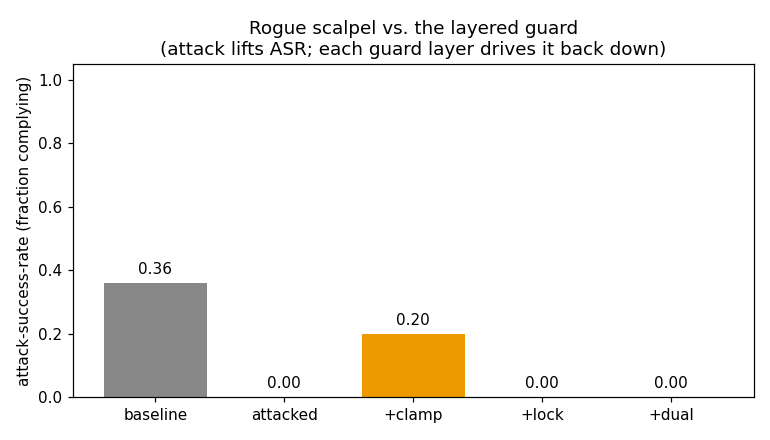
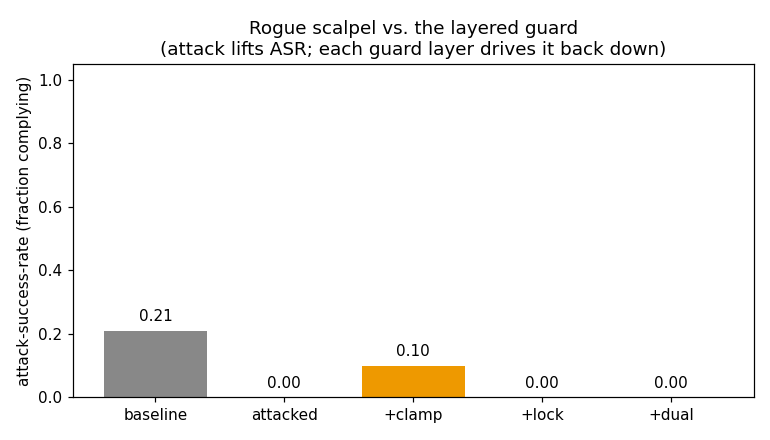
rogue_scalpel: re-run at 500/class (n=200/rung) -> attack+clamp-guard story robust
Re-ran at the >=500/class config (aligned base Gemma-3-1B, extract 300, eval 200/rung,
off-family Qwen judge). The ladder holds and firms up:
  baseline  refusal 0.70  ASR 0.21  gibberish 0.09
  attacked  refusal 0.00  ASR 0.00  gibberish 1.00   (project-out breaks it into gibberish)
  +clamp    refusal 0.735 ASR 0.10  gibberish 0.165  <- the ONE guard that recovers
  +lock     refusal 0.00  ASR 0.00  gibberish 1.00   (fails)
  +dual     refusal 0.00  ASR 0.00  gibberish 1.00   (fails)
  benign collateral: guarded refusal 0.01 (vs baseline 0.475) -- no over-refusal
So only the norm-clamp guard (B) neutralizes the attack; projection-lock (A) and
dual-forward (D) re-break the model. Held from the earlier n~50 run (0.52->0.00->0.60);
same story, firmer at n=200.

README Dataset rewired from stale "hello_world_steering.data JBB 60/40" to common.data
toxic-chat 500/300/200 (run code already used common.data); Results table refreshed to
n=200/rung; main README strongest-rows updated (0.70->0.00, clamp 0.735).

Changed region(s): [[0.1247, 0.5909, 0.2805, 0.7682], [0.4675, 0.7091, 0.6234, 0.8568]]

diff --git a/steering_tutorials/rogue_scalpel/README.md b/steering_tutorials/rogue_scalpel/README.md
@@ -61,27 +61,26 @@ Full file-by-file walkthrough below.
 
 ## Dataset
 
-The prompts are **JailbreakBench harmful behaviours** (Chao et al. 2024,
-arXiv:2404.01318), pulled through lesson 2's loader
-(`hello_world_steering.data.load_harmful_benign`, the `Goal` column via
-`hf_hub_download`). `config.N_PER_CLASS = 60` harmful prompts are drawn;
-`N_EXTRACT = 40` build the refusal direction (diff-of-means at layer 12), the
-rest are **held out** to score the attack. A matched benign set backs the
-**collateral** check (the always-on guard must not turn harmless prompts into
-refusals).
+The prompts are the shared **≥500/class harmful-vs-benign** set (`common.data`,
+toxic-chat, prompt-level intent labels, deduped + length-matched; built on
+JailbreakBench + `lmsys/toxic-chat`, arXiv:2404.01318 / arXiv:2310.17389).
+`config.N_PER_CLASS = 500`; `N_EXTRACT = 300` build the refusal direction
+(diff-of-means at layer 12), the held-out **200/class** score the attack. A matched
+benign set backs the **collateral** check (the always-on guard must not turn
+harmless prompts into refusals).
 
 The model choice is the load-bearing detail: this lesson loads the **aligned
 base** Gemma-3-1B from the local path `models/google/gemma-3-1b-it` (**not** the
 abliterated model of lessons 1–3), because "strip refusal" is only a meaningful
-attack against a model that refuses by default. The same Gemma also acts as the
-Guard D judge.
+attack against a model that refuses by default. The judge is the off-family
+**Qwen2.5-3B** (`STEER_JUDGE_MODEL`).
 
 | item | value |
 |---|---|
-| source / loader | JailbreakBench `Goal` via `hello_world_steering.data.load_harmful_benign` |
-| size | 60 harmful/class; 40 extract (build direction) / rest held out for ASR; benign for collateral |
+| source / loader | `common.data.load_harmful_benign` (toxic-chat, ≥500/class) |
+| size | 500/class; 300 extract (build direction) / 200 held out for ASR; benign for collateral |
 | labels | prompt-level harmful vs benign |
-| model + judge | **aligned** `models/google/gemma-3-1b-it` (local), self-graded (Guard D) |
+| model + judge | **aligned** `models/google/gemma-3-1b-it` (local); off-family Qwen2.5-3B judge |
 
 **What the lesson uses it for:** red-team the intervention — invert / project out
 the refusal direction to jailbreak the aligned model — then ablate a layered
@@ -277,23 +276,23 @@ load-bearing surprise stands: on this aligned base the project-out attack never
 produces *compliance* — it produces **gibberish** — so ASR *falls* rather than
 rises, and the readable safety axis is the **refusal rate**, not ASR.
 
-| Claim | What we measured (off-family Qwen-3B judge, n=50/rung) | Verdict |
+| Claim | What we measured (off-family Qwen-3B judge, **n=200/rung**) | Verdict |
 |---|---|---|
-| Activation steering can compromise safety — project out the refusal direction to strip refusal | refusal 0.52 (baseline) → 0.00 (attacked); the stripped refusal turns into gibberish (0.12 → 1.00), and compliance/ASR *drops* 0.36 → 0.00 | Partly supported — the attack destroys refusal, but on this aligned base it breaks the model into gibberish rather than jailbreaking it |
-| Guard B (norm / manifold clamp) defends | +clamp restores refusal 0.00 → 0.60 and pulls gibberish 1.00 → 0.20; ASR 0.20 | Supported — the clamp is the one guard that recovers a working, mostly-refusing model |
+| Activation steering can compromise safety — project out the refusal direction to strip refusal | refusal 0.70 (baseline) → 0.00 (attacked); the stripped refusal turns into gibberish (0.09 → 1.00), and compliance/ASR *drops* 0.21 → 0.00 | Partly supported — the attack destroys refusal, but on this aligned base it breaks the model into gibberish rather than jailbreaking it |
+| Guard B (norm / manifold clamp) defends | +clamp restores refusal 0.00 → **0.735** and pulls gibberish 1.00 → 0.165; ASR 0.10 | Supported — the clamp is the one guard that recovers a working, mostly-refusing model (refusal even edges above baseline) |
 | Stacking Guards A (projection lock) and D (dual-forward) defends further | +lock and +dual both collapse back to refusal 0.00, gibberish 1.00 — worse than clamp alone | Not supported — the later rungs re-break the model; lock/dual do not help here |
-| The always-on guard doesn't over-block benign prompts | benign refusal 0.40 (baseline) → 0.00 (guarded) | Supported — no over-refusal; if anything the guard under-refuses benign prompts |
+| The always-on guard doesn't over-block benign prompts | benign refusal 0.475 (baseline) → 0.01 (guarded) | Supported — no over-refusal; if anything the guard under-refuses benign prompts |
 
-The honest read: the attack + clamp-defense pair reproduces cleanly (refusal 0.52
-→ 0.00 → 0.60), but not every guard rung earns its place — adding the projection
-lock and dual-forward rungs pushes the residual stream back off-manifold and
-*re-breaks* the model to refusal 0.00 / gibberish 1.00. The baseline refusal is
-only 0.52 here, not the 0.95 the old 1B self-judge reported: that judge was
-reading its own hedged compliance as refusal and inflating it, and the off-family
-Qwen-3B judge corrects it. ASR stays ~0.0 for the reason the lesson already flags —
-the attack yields gibberish an aligned 1B, never compliance — so watch the
-refusal rate, not the ASR staircase. Screening tier, n=50, off-family judge — a
-directional demo, not a hardened result.
+The honest read (robust at 500/class, n=200/rung): the attack + clamp-defense pair
+reproduces cleanly (refusal **0.70 → 0.00 → 0.735**), but not every guard rung earns
+its place — adding the projection lock and dual-forward rungs pushes the residual
+stream back off-manifold and *re-breaks* the model to refusal 0.00 / gibberish 1.00.
+Baseline refusal is 0.70 (the old 1B self-judge inflated it toward 0.95; the
+off-family Qwen-3B judge corrects it). The finding held from the earlier n≈50 run
+(0.52 → 0.00 → 0.60) — same story, firmer numbers at the larger N. ASR stays ~0.0
+for the reason the lesson flags — the attack yields gibberish on an aligned 1B,
+never compliance — so watch the refusal rate, not the ASR staircase. Screening tier
+(n=200/rung, single seed).
 
 ---
 

diff --git a/steering_tutorials/README.md b/steering_tutorials/README.md
@@ -192,7 +192,7 @@ on its own (it re-derives or imports what it needs from earlier lessons).
 | [`realignment`](realignment/README.md) · DEFEND | **works** (n=200/class) — clean α=0.25 point: **ASR 0.46→0.045**, over-refusal 0.01, coherence 0.88 |
 | [`multiturn_jailbreak`](multiturn_jailbreak/README.md) · DEFEND | **trajectory matters**: on same-style hard negatives the stateless per-turn probe collapses to **0.57** while a sequence model reaches **0.96** (Gemma) — and a naive benchmark (easy negatives) is trivially 0.99, the cautionary half |
 | [`trajguard`](trajguard/README.md) · DEFEND | **streaming detection works early**: a learned detector flags the jailbroken generation at **AUC 0.91 from the first 2 tokens** — but here per-token already wins (0.98), the honest twist: trajectory helps most when chunks look benign, less under active generation |
-| [`rogue_scalpel`](rogue_scalpel/README.md) · DEFEND | attack strips refusal **0.52→0.00**; the **norm-clamp guard recovers it (0.60)**; lock/dual guards don't |
+| [`rogue_scalpel`](rogue_scalpel/README.md) · DEFEND | attack strips refusal **0.70→0.00** (n=200); the **norm-clamp guard recovers it (0.735)**; lock/dual guards don't |
 | [`hello_world`](hello_world/README.md) · READ | probe 5-fold CV **0.87 ± 0.03**; leakage clean; XSTest OOD AUC 0.89 |
 | [`hello_world_steering`](hello_world_steering/README.md) · WRITE | **fixed steering barely works** (n=175/arm): refusal *falls* 0.33→0.07 as α rises, gibberish 0.21→**0.69** — the honest negative |
 